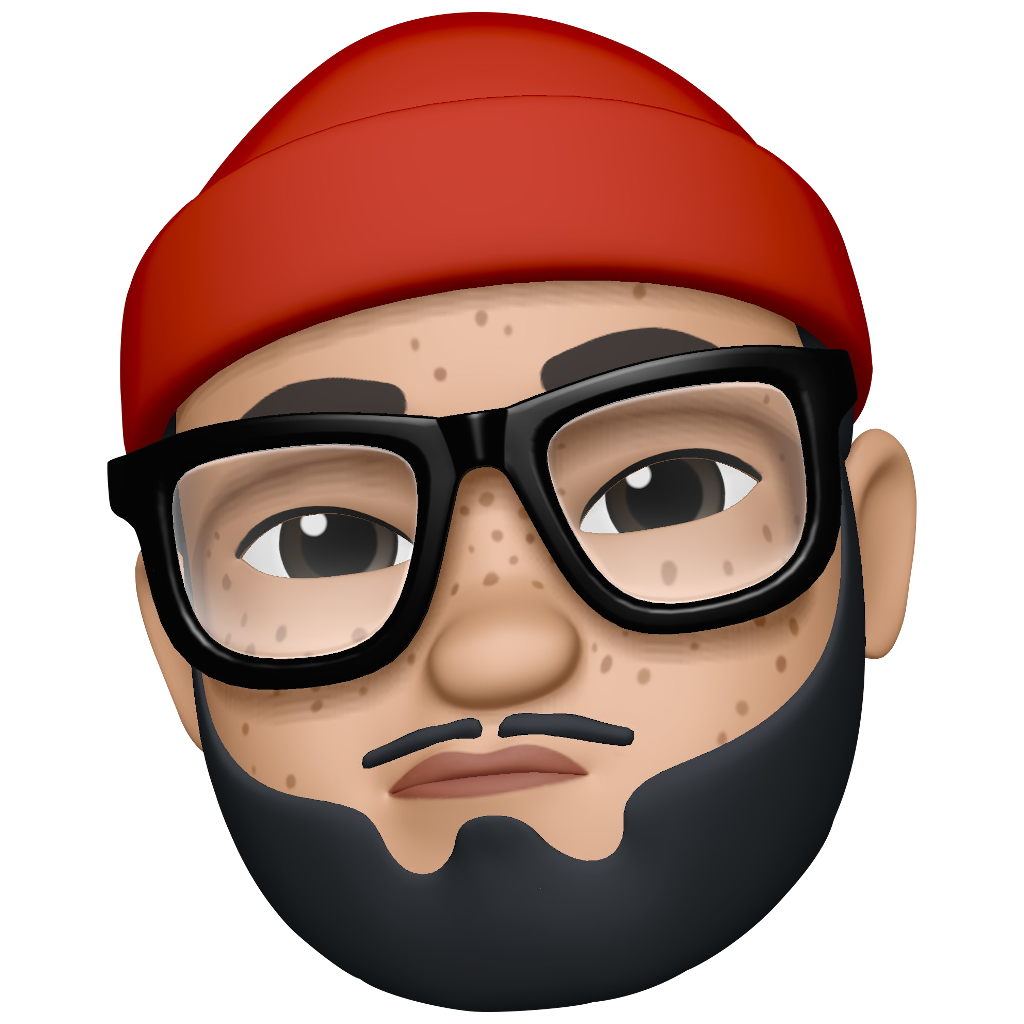
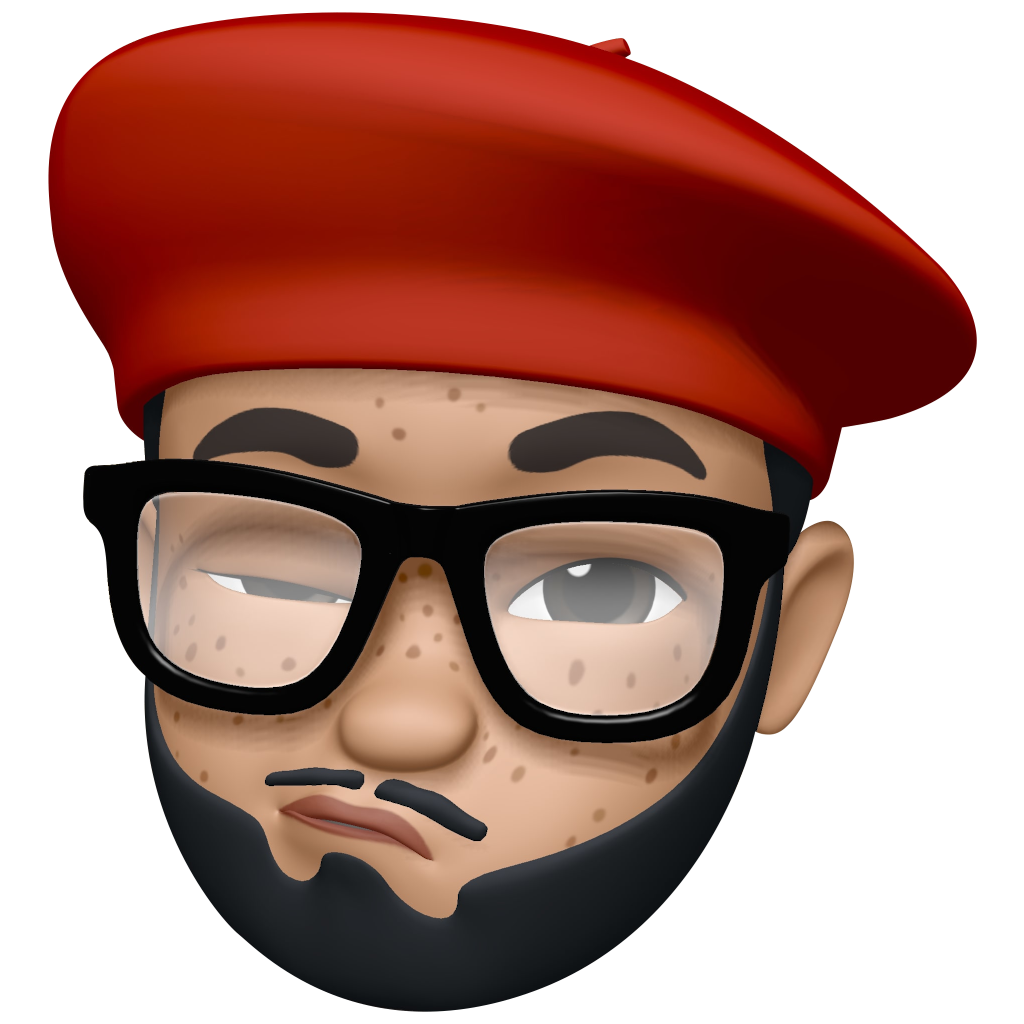
Add two new memojis

diff --git a/src/components/Memoji/Memoji.vue b/src/components/Memoji/Memoji.vue
@@ -27,8 +27,10 @@
         default: 'technical_writer',
         validator: val => [
           'software_developer',
+          'infrastructure_architect',
           'technical_writer',
           'design_dabbler',
+          'open_sourcerer',
           'easter_eggsmith'
         ].includes(val)
       },
@@ -76,11 +78,17 @@
           case 'software_developer':
             title = 'Where did I miss a semicolon?'
             break
+          case 'infrastructure_architect':
+            title = 'Containers all the way down!'
+            break
           case 'technical_writer':
             title = 'Whoa, a LaTeX-typeset equation!'
             break
           case 'design_dabbler':
             title = 'Hmmm, how about a pixel to the left?'
+            break
+          case 'open_sourcerer':
+            title = 'Feel free to fork my repository of spells.'
             break
           case 'easter_eggsmith':
             title = '⇧ ⇧ ⇩ ⇩ ⇦ ⇨ ⇦ ⇨ B A!'

diff --git a/src/templates/Home/Home.vue b/src/templates/Home/Home.vue
@@ -39,7 +39,7 @@
           with utmost <strong>love</strong> and <strong>passion</strong>,
           composes
           <br/>
-          code, documentation, designs and easter eggs
+          code, containers, docs, designs and easter eggs
           <br/>
           <span
             class="run-on"
@@ -77,8 +77,10 @@
     data () {
       let roles = [
         'software developer',
+        'infrastructure architect',
         'technical writer',
         'design dabbler',
+        'open sourcerer',
         'easter eggsmith'
       ]
       return {
